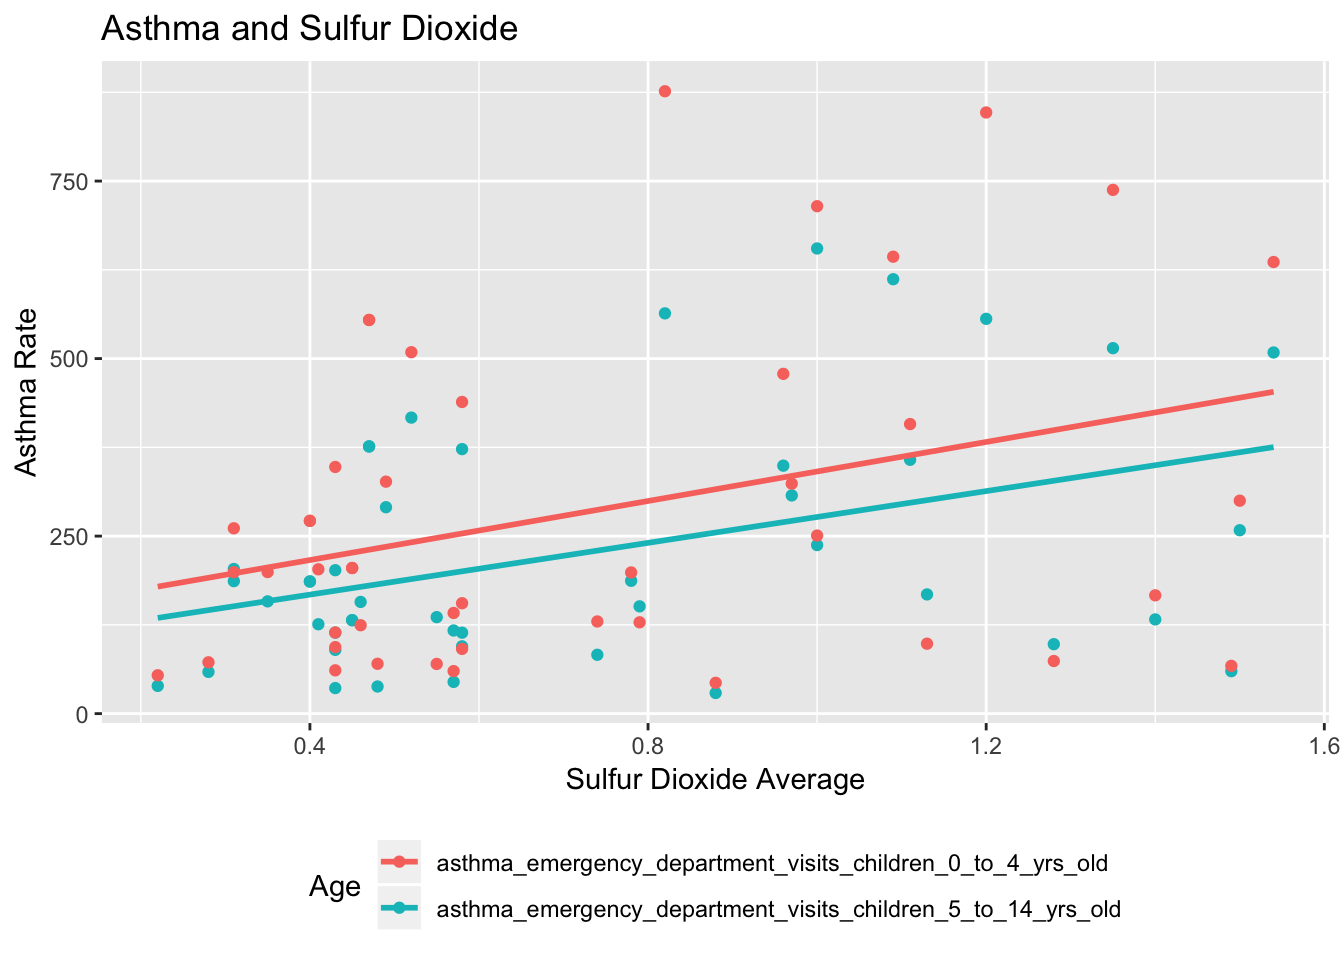
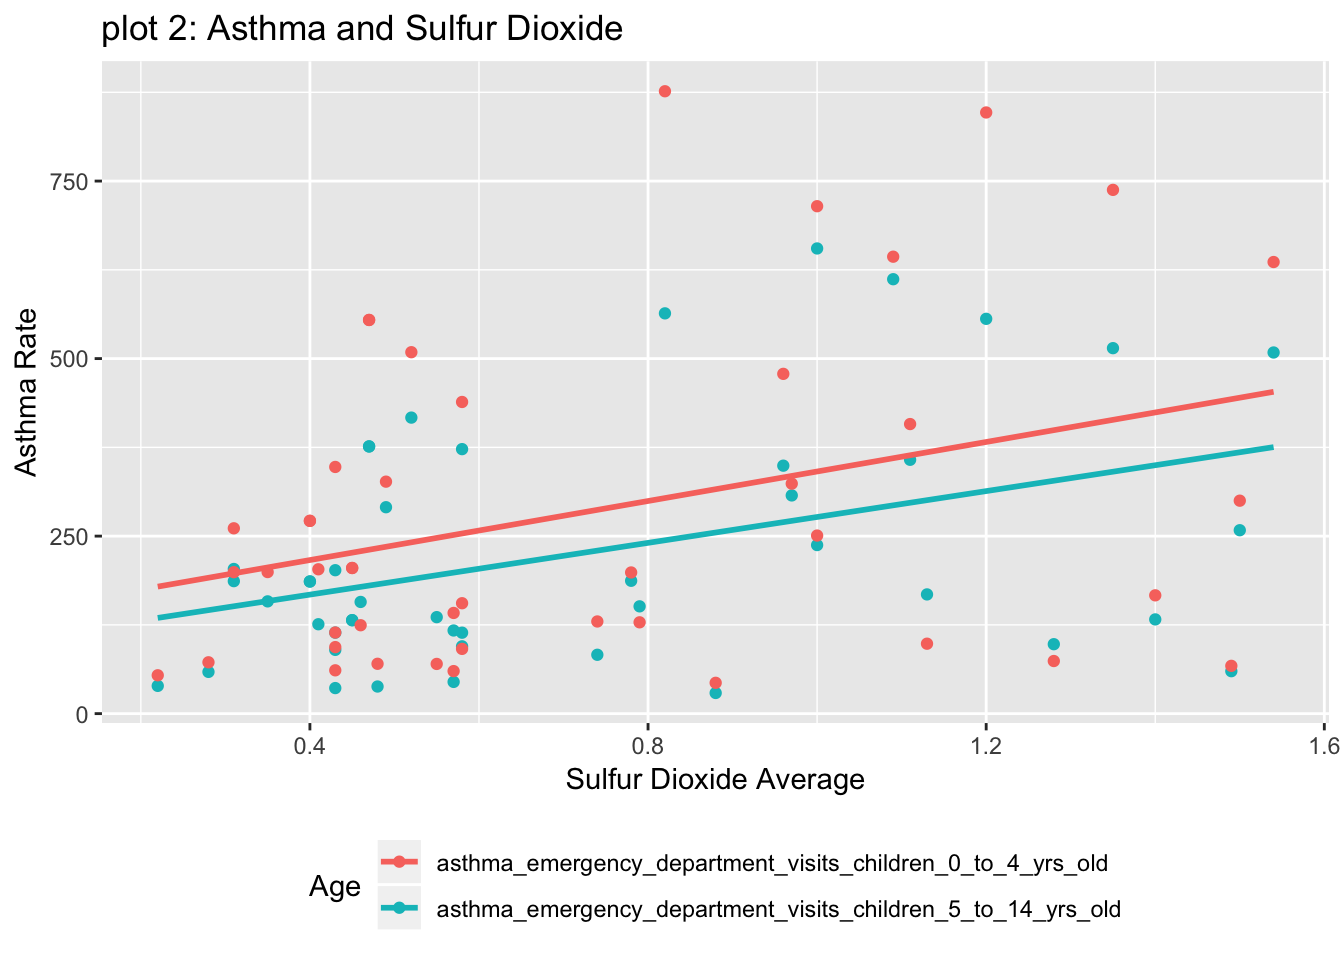
edit final report

Changed region(s): [[0.0625, 0.0, 0.4688, 0.0625]]

diff --git a/finalreport.html b/finalreport.html
@@ -9,7 +9,7 @@
 <meta name="generator" content="pandoc" />
 
 
-<meta name="author" content="Jingwei Ren" />
+<meta name="author" content="Jingwei Ren, Baoyi Shi, Xinyao Wu, Qi Shao" />
 
 
 <title>final report</title>
@@ -218,15 +218,12 @@ $(document).ready(function () {
 
 
 <h1 class="title toc-ignore">final report</h1>
-<h4 class="author"><em>Jingwei Ren</em></h4>
+<h4 class="author"><em>Jingwei Ren, Baoyi Shi, Xinyao Wu, Qi Shao</em></h4>
 <h4 class="date"><em>12/2/2018</em></h4>
 
 </div>
 
 
-<div id="final-report" class="section level2">
-<h2>final report</h2>
-</div>
 <div id="motivation" class="section level2">
 <h2>motivation</h2>
 <p>Over the past decades, the prevalence of asthma has increased in the urban areas with the potential effects of airflow, air quality and production of aeroallergens. Asthma is the most prevalent chronic disease among children. The disease can make breathing difficult and trigger coughing, wheezing and shortness of breath by the presence of extra mucus in narrow airways. Data on the influence of green spaces on asthma in children are inconstant. Previous research that did in Kaunas, Lithuania showed a positive association between the level of the surrounding greenness and risk of asthma in children. Their study suggested that high exposure to green spaces may increase the risk of allergic conditions and the prevalence of asthma through the effect of pollen. Another ecological design study did in New York City observed an inverse association between street tree density and the prevalence of asthma. Others have reported no relationships between greenery densities, canopy cover and asthma.</p>
@@ -254,19 +251,6 @@ $(document).ready(function () {
 </div>
 <div id="scraping-method-cleaning" class="section level3">
 <h3>scraping method, cleaning</h3>
-<pre class="r"><code>library(tidyverse)</code></pre>
-<pre><code>## ── Attaching packages ─────────────────────────────────────────────────── tidyverse 1.2.1 ──</code></pre>
-<pre><code>## ✔ ggplot2 3.1.0     ✔ purrr   0.2.5
-## ✔ tibble  1.4.2     ✔ dplyr   0.7.8
-## ✔ tidyr   0.8.2     ✔ stringr 1.3.1
-## ✔ readr   1.1.1     ✔ forcats 0.3.0</code></pre>
-<pre><code>## ── Conflicts ────────────────────────────────────────────────────── tidyverse_conflicts() ──
-## ✖ dplyr::filter() masks stats::filter()
-## ✖ dplyr::lag()    masks stats::lag()</code></pre>
-<pre class="r"><code>library(dplyr)
-library(readr)
-library(ggplot2)
-library(readxl)</code></pre>
 <pre class="r"><code>#import and tidy tree data
 tree_df = read_csv(&quot;./data/2015StreetTreesCensus_TREES.csv&quot;) %&gt;%
   janitor::clean_names() %&gt;%
@@ -366,14 +350,14 @@ ggplot(final_asthma_df) +
   geom_point(aes(x = tree_density, y = rate, color = asthma_age)) +
    geom_smooth(aes(x = tree_density, y = rate, color = asthma_age), method = &quot;lm&quot;,se = F) +
    labs(
-    title = &quot;Asthma and Tree Density&quot;,
+    title = &quot;plot 1: Asthma and Tree Density&quot;,
     x = &quot;Tree Density&quot;,
     y = &quot;Asthma Rate&quot;
   ) +
    theme(legend.position = &quot;bottom&quot;) +
    guides(color = guide_legend(nrow = 2)) +
    scale_color_hue(name = &quot;Age&quot;)</code></pre>
-<p><img src="finalreport_files/figure-html/unnamed-chunk-4-1.png" width="672" /> This plot showed the relationship between asthma and tree. Visually, there was a positive association between tree density and astham rate.</p>
+<p><img src="finalreport_files/figure-html/unnamed-chunk-4-1.png" width="672" /> This plot 1 showed the relationship between asthma and tree. Visually, there was a positive association between tree density and astham rate.</p>
 </div>
 <div id="step-two" class="section level3">
 <h3>step two</h3>
@@ -383,7 +367,7 @@ ggplot(final_asthma_df) +
    geom_point(aes(x = sulfur_dioxide_so2, y = rate, color = asthma_age))+
    geom_smooth(aes(x = sulfur_dioxide_so2, y = rate, color = asthma_age), method = &quot;lm&quot;, se = F) +
    labs(
-    title = &quot;Asthma and Sulfur Dioxide&quot;,
+    title = &quot;plot 2: Asthma and Sulfur Dioxide&quot;,
     x = &quot;Sulfur Dioxide Average&quot;,
     y = &quot;Asthma Rate&quot;
   ) +
@@ -396,7 +380,7 @@ ggplot(final_asthma_df) +
    geom_point(aes(x = fine_particulate_matter_pm2_5, y = rate, color = asthma_age))+
    geom_smooth(aes(x = fine_particulate_matter_pm2_5, y = rate, color = asthma_age), method = &quot;lm&quot;, se = F) +
    labs(
-    title = &quot;Asthma and PM2.5&quot;,
+    title = &quot;plot 3: Asthma and PM2.5&quot;,
     x = &quot;PM2.5 Average&quot;,
     y = &quot;Asthma Rate&quot;
   ) +
@@ -409,14 +393,14 @@ ggplot(final_asthma_df) +
    geom_point(aes(x = poverty, y = rate, color = asthma_age))+
    geom_smooth(aes(x = poverty, y = rate, color = asthma_age), method = &quot;lm&quot;, se = F) +
    labs(
-    title = &quot;Asthma and Poverty&quot;,
+    title = &quot;plot 4: Asthma and Poverty&quot;,
     x = &quot;Poverty Percent&quot;,
     y = &quot;Asthma Rate&quot;
   ) +
    theme(legend.position = &quot;bottom&quot;) +
    guides(color = guide_legend(nrow = 2)) +
    scale_color_hue(name = &quot;Age&quot;)</code></pre>
-<p><img src="finalreport_files/figure-html/unnamed-chunk-5-3.png" width="672" /> plot1 showed the relationship between asthma rate and so2. plot2 showed the relationship between astham rate rate and pM.25 plot3 showed the relationship between asthma and poverty. Visually, there was a positive association between astham rate and SO2, PM 2.5 and poverty level.</p>
+<p><img src="finalreport_files/figure-html/unnamed-chunk-5-3.png" width="672" /> plot2 showed the relationship between asthma rate and so2. plot3 showed the relationship between astham rate rate and pM.25 plot4 showed the relationship between asthma and poverty. Visually, there was a positive association between astham rate and SO2, PM 2.5 and poverty level.</p>
 </div>
 <div id="step-three" class="section level3">
 <h3>step three</h3>
@@ -425,14 +409,14 @@ ggplot(final_asthma_df) +
 ggplot(final_asthma_df) +
   geom_bar(aes(x = geo_entity_name, y = rate, fill = asthma_age), stat = &quot;identity&quot;, position = &quot;dodge&quot;) +
    labs(
-    title = &quot;Asthma Rate In Each Entity&quot;,
+    title = &quot;plot 5: Asthma Rate In Each Entity&quot;,
     x = &quot;Entity Name&quot;,
     y = &quot;Asthma Rate&quot;
   ) +
    theme(legend.position = &quot;bottom&quot;, axis.text.x = element_text(angle = 75, hjust = 1)) +
    guides(fill = guide_legend(nrow = 2)) +
    scale_fill_hue(name = &quot;Age&quot;) </code></pre>
-<p><img src="finalreport_files/figure-html/unnamed-chunk-6-1.png" width="672" /> Plot showed that children from 0 to 4 years have higher asthma rate compared to children from 5 to 14 years old.</p>
+<p><img src="finalreport_files/figure-html/unnamed-chunk-6-1.png" width="672" /> Plot 5 showed that children from 0 to 4 years have higher asthma rate compared to children from 5 to 14 years old.</p>
 </div>
 </div>
 <div id="tree-visualizations" class="section level2">
@@ -443,7 +427,7 @@ ggplot(final_asthma_df) +
   geom_point(aes(x = sulfur_dioxide_so2, y = tree_density)) +
   geom_smooth(aes(x = sulfur_dioxide_so2, y = tree_density), method = &quot;lm&quot;, se = F) +
    labs(
-    title = &quot;Tree Density and Sulfur Dioxide&quot;,
+    title = &quot;plot 6: Tree Density and Sulfur Dioxide&quot;,
     x = &quot;Sulfur Dioxide Average&quot;,
     y = &quot;Tree Density&quot;
   ) </code></pre>
@@ -453,11 +437,11 @@ ggplot(final_asthma_df) +
   geom_point(aes(x = fine_particulate_matter_pm2_5, y = tree_density)) +
   geom_smooth(aes(x = fine_particulate_matter_pm2_5, y = tree_density), method = &quot;lm&quot;, se = F) +
    labs(
-    title = &quot;Tree Density and PM2.5&quot;,
+    title = &quot;plot 7: Tree Density and PM2.5&quot;,
     x = &quot;PM2.5 Average&quot;,
     y = &quot;Tree Density&quot;
   ) </code></pre>
-<p><img src="finalreport_files/figure-html/unnamed-chunk-7-2.png" width="672" /> plot 1 showed the association between tree density and so2. plot 2 showed the association between tree density and pm 2.5 Visually, there was a positive association between tree density and air quality factors.</p>
+<p><img src="finalreport_files/figure-html/unnamed-chunk-7-2.png" width="672" /> plot 6 showed the association between tree density and so2. plot 7 showed the association between tree density and pm 2.5 Visually, there was a positive association between tree density and air quality factors.</p>
 </div>
 <div id="statistical-analyses" class="section level2">
 <h2>statistical analyses</h2>
@@ -628,8 +612,60 @@ data.frame(Pollute = c(&quot;Ozone&quot;, &quot;Black Carbon&quot;, &quot;PM2.5&
 </tbody>
 </table>
 <pre class="r"><code>#based on p values, we choose SO2</code></pre>
-<p>The result showed that only SO2 had an association with asthma, since the p value is lower than 0.05. All the other air quality factors are not significantly related to children asthma rate. ## Discussion</p>
-<p>Our main goal is to discuss the relationship between tree density in New York city and children asthma rate in 2015. We built two multilinear regression models, investigating the relationship between asthma rate and tree density, SO2 and poverty level for childern from 0 to 4 years old and childern from 5 to 14 years old . The result showed that exposure to air pollution (SO2) (P value = 0.048, 0.0116) and increased poverty level(P value = 6.41e-09,2.83e-09) could contribute to excess asthma in urban areas. All the factors are significant except tree density ( p value = 0.86, 0.64). We listed some possible reasons that explained why no obvious association was shown between tree density and asthma. One possible explanation is season. In the spring and summer months, increasing tree densities might have a positive impact on asthma rate. Pollen could be an allergen that give some people sneezing fits and watery eyes, which could indirectly cause an asthma attack in others. However, in the fall and winter months, increasing tree densities might decrease the asthma rate through the effect on local air quality. Those two situations might counteract each other and result in the conclusion that overall, there was no association between tree density in New York city and children asthma rate in 2015.</p>
+<p>The result showed that only SO2 had an association with asthma, since the p value is lower than 0.05. All the other air quality factors are not significantly related to children asthma rate.</p>
+<p>We did a paired T test to test if there is significant difference between asthma rate of 0-4 and that of 5-14</p>
+<pre class="r"><code>#Paired T test to test if there is significant difference between asthma rate of 0-4 and that of 5-14
+t.test(final_df$asthma_emergency_department_visits_children_0_to_4_yrs_old, final_df$asthma_emergency_department_visits_children_5_to_14_yrs_old, paired=T) %&gt;%
+  broom::tidy() %&gt;%
+  knitr::kable()</code></pre>
+<table>
+<thead>
+<tr class="header">
+<th align="right">estimate</th>
+<th align="right">statistic</th>
+<th align="right">p.value</th>
+<th align="right">parameter</th>
+<th align="right">conf.low</th>
+<th align="right">conf.high</th>
+<th align="left">method</th>
+<th align="left">alternative</th>
+</tr>
+</thead>
+<tbody>
+<tr class="odd">
+<td align="right">57.01778</td>
+<td align="right">4.761863</td>
+<td align="right">2.11e-05</td>
+<td align="right">44</td>
+<td align="right">32.88609</td>
+<td align="right">81.14946</td>
+<td align="left">Paired t-test</td>
+<td align="left">two.sided</td>
+</tr>
+<tr class="even">
+<td align="right">The T test</td>
+<td align="right">result showe</td>
+<td align="right">d that ther</td>
+<td align="right">e is signifi</td>
+<td align="right">cant differ</td>
+<td align="right">ence between</td>
+<td align="left">children asthma</td>
+<td align="left">rate of 0-4 and that of 5-14. P value is 2.11e-05, lower than 0.05.</td>
+</tr>
+<tr class="odd">
+<td align="right">## Discussi</td>
+<td align="right">on</td>
+<td align="right"></td>
+<td align="right"></td>
+<td align="right"></td>
+<td align="right"></td>
+<td align="left"></td>
+<td align="left"></td>
+</tr>
+</tbody>
+</table>
+<p>Our main goal is to discuss the relationship between tree density in New York city and children asthma rate in 2015. We built two multilinear regression models, investigating the relationship between asthma rate and tree density, SO2 and poverty level for childern from 0 to 4 years old and childern from 5 to 14 years old . The result showed that exposure to air pollution (SO2) (P value = 0.048, 0.0116) and increased poverty level(P value = 6.41e-09,2.83e-09) could contribute to excess asthma in urban areas. All the factors are significant except tree density ( p value = 0.86, 0.64). We listed some possible reasons that explained why no obvious association was shown between tree density and asthma. One possible explanation is season. In the spring and summer months, increasing tree densities might have a positive impact on asthma rate. Pollen could be an allergen that give some people sneezing fits and watery eyes, which could indirectly cause an asthma attack in others. However, in the fall and winter months, increasing tree densities might decrease the asthma rate through the effect on local air quality. Those two situations might counteract each other and result in the conclusion that overall, there was no association between tree density in New York city and children asthma rate in 2015. Other factors might also influence the astham rate, including sociodemographic characteristics, population density and hospitals amount in the neighborhood. After adjustment, the assoication between tree density and hospitalisations as a result of asthma might no longer significant.</p>
+<p>We were also interested to see whether there was a difference in asthma rate between children from 0 to 4 years old and children from 5 to 14 years old. The result from plot 5 showed that children from 0 to 4 years have higher asthma rate compared to children from 5 to 14 years old. The T test also proved that there is significant difference between children asthma rate of 0-4 and that of 5-14. (P value = 2.11e-05). A positive relationship between tree density and air quality factors in 42 neighborhood in New York city was reported. Tree density increases as CO2 and PM 2.5 levels increase. One possible explanation for this could be that people’s awareness of environment increases as the air quality in one area decreases. Therefore, we saw a positive result. We would expect to see a negative association. In order to verify this, we could make plots detecting the change of air quality’s levels throughout couple years. Increasing tree densities might help to decrease air quality’s levels through a long term process.</p>
 </div>
 
 
